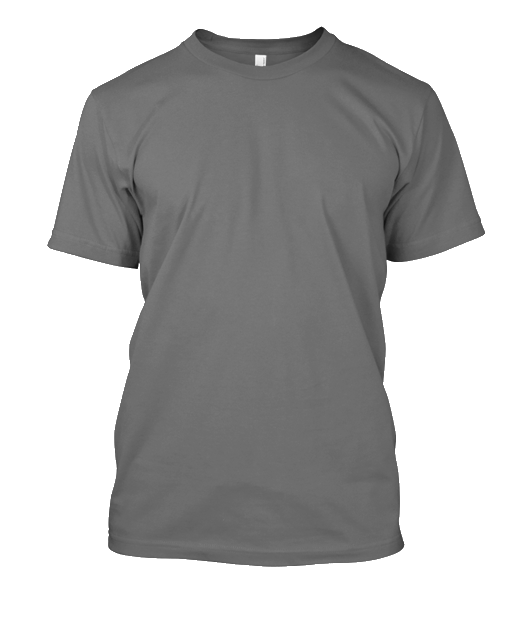
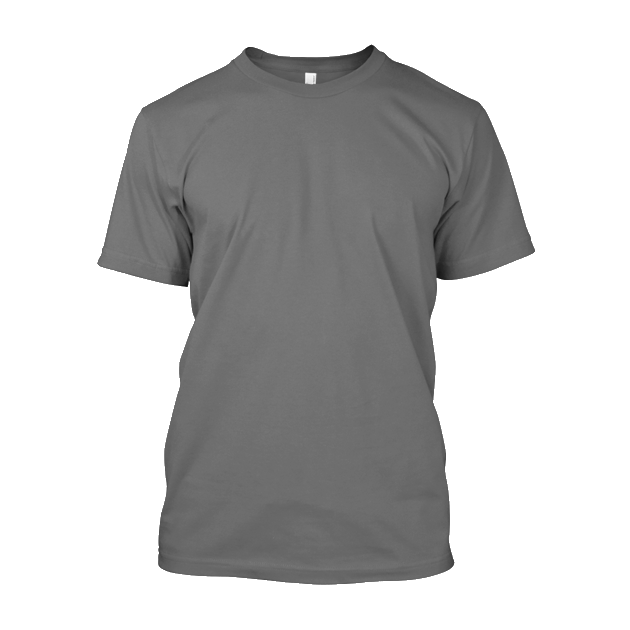
make apparel uses fabric canvas

Changed region(s): [[0.0906, 0.0302, 0.9358, 0.9349]]

diff --git a/src/components/02-molecules/ApparelCanvas/ApparelCanvas.tsx b/src/components/02-molecules/ApparelCanvas/ApparelCanvas.tsx
@@ -1,8 +1,10 @@
 import { useRef, useEffect, useContext } from "react";
+import type { FabricImage } from "fabric";
 import * as fabric from "fabric";
 
 import { ObjectDispatchContext } from "@/contexts/ObjectContext";
 import { CanvasDispatchContext } from "@/contexts/CanvasContext";
+import { useScreenDetect } from "@/hooks/useScreenDetect";
 
 /**
  * TYPES
@@ -22,11 +24,36 @@ const ApparelCanvas = ({
 }: ApparelOptionTypes) => {
   const dispatchCanvas = useContext(CanvasDispatchContext);
   const dispatchObject = useContext(ObjectDispatchContext);
+
   const canvasElement = useRef<HTMLCanvasElement>(null);
+
+  const { isMediumScreen, isLargeScreen, isXLargeScreen } = useScreenDetect();
+
+  // Mobile-first!
+  let canvasWidth = 340;
+
+  if (isXLargeScreen) {
+    canvasWidth = 550;
+  } else if (isLargeScreen) {
+    canvasWidth = 370;
+  } else if (isMediumScreen) {
+    canvasWidth = 800;
+  }
 
   useEffect(() => {
     // @ts-ignore-next
-    const fabricCanvas = new fabric.Canvas(canvasElement.current);
+    const fabricCanvas = new fabric.Canvas(canvasElement.current, {
+      width: canvasWidth,
+      height: canvasWidth,
+    });
+
+    fabric.FabricImage.fromURL(
+      `/apparels/${apparel}/${apparel}-${gender}-${color}-${side}.png`,
+    ).then((imageObject: FabricImage) => {
+      imageObject.scaleToWidth(canvasWidth);
+      fabricCanvas.set("backgroundImage", imageObject);
+      fabricCanvas.renderAll();
+    });
 
     dispatchCanvas({
       type: "canvas-updated",
@@ -59,36 +86,38 @@ const ApparelCanvas = ({
     return () => {
       fabricCanvas.dispose();
     };
-  }, [dispatchCanvas, dispatchObject]);
+  }, [apparel, color, dispatchCanvas, dispatchObject, gender, side]);
 
-  return (
-    <div
-      style={{
-        backgroundImage: `url('/apparels/${apparel}/${apparel}-${gender}-${color}-${side}.png')`,
-        backgroundSize: "480px 559px",
-        backgroundRepeat: "no-repeat",
-        width: 530,
-        height: 630,
-      }}
-      className="relative"
-    >
-      <canvas
-        ref={canvasElement}
-        style={{
-          position: "absolute",
-          left: 0,
-          right: 0,
-          top: 0,
-          bottom: 0,
-          margin: "auto",
-          marginTop: "110px",
-          marginLeft: "148px",
-        }}
-        width={180}
-        height={220}
-      ></canvas>
-    </div>
-  );
+  return <canvas ref={canvasElement} />;
+
+  // return (
+  //   <div
+  //     style={{
+  //       backgroundImage: `url('/apparels/${apparel}/${apparel}-${gender}-${color}-${side}.png')`,
+  //       backgroundSize: "480px 559px",
+  //       backgroundRepeat: "no-repeat",
+  //       width: 530,
+  //       height: 630,
+  //     }}
+  //     className="relative"
+  //   >
+  //     <canvas
+  //       ref={canvasElement}
+  //       style={{
+  //         position: "absolute",
+  //         left: 0,
+  //         right: 0,
+  //         top: 0,
+  //         bottom: 0,
+  //         margin: "auto",
+  //         marginTop: "110px",
+  //         marginLeft: "148px",
+  //       }}
+  //       width={180}
+  //       height={220}
+  //     ></canvas>
+  //   </div>
+  // );
 };
 
 export default ApparelCanvas;

diff --git a/src/hooks/useScreenDetect.ts b/src/hooks/useScreenDetect.ts
@@ -1,0 +1,14 @@
+import { useMediaQuery } from "react-responsive";
+
+// Info: The value is based on https://tailwindcss.com/docs/responsive-design
+export function useScreenDetect() {
+  const isMediumScreen = useMediaQuery({ query: "(min-width: 768px)" });
+  const isLargeScreen = useMediaQuery({ query: "(min-width: 1024px)" });
+  const isXLargeScreen = useMediaQuery({ query: "(min-width: 1280px)" });
+
+  return {
+    isMediumScreen,
+    isLargeScreen,
+    isXLargeScreen,
+  };
+}

diff --git a/src/app/page.tsx b/src/app/page.tsx
@@ -29,7 +29,7 @@ export default function Home() {
           {IS_CONTROL_BAR_VISIBLE && <ControlBar className="mb-3 lg:mb-10" />}
 
           <div className="flex flex-wrap">
-            <div className="flex w-full items-start justify-center lg:w-1/2 lg:pr-10">
+            <div className="flex w-full items-start justify-center lg:w-1/2">
               <ApparelCanvas apparel={apparel.type} color={apparel.color} />
             </div>
             <div className="w-full lg:w-1/2">
